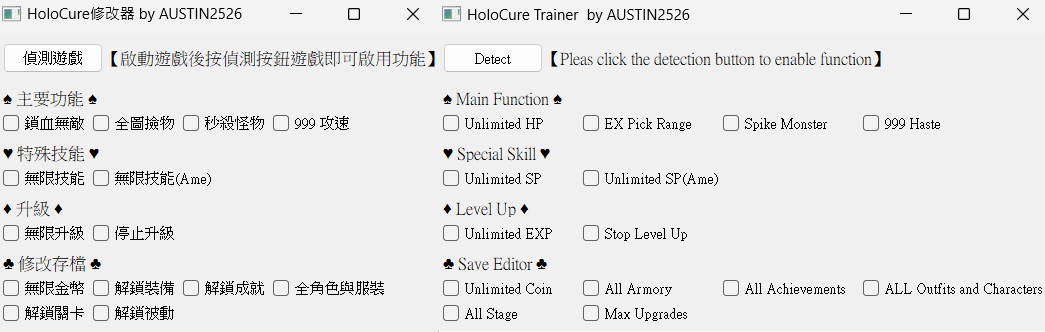
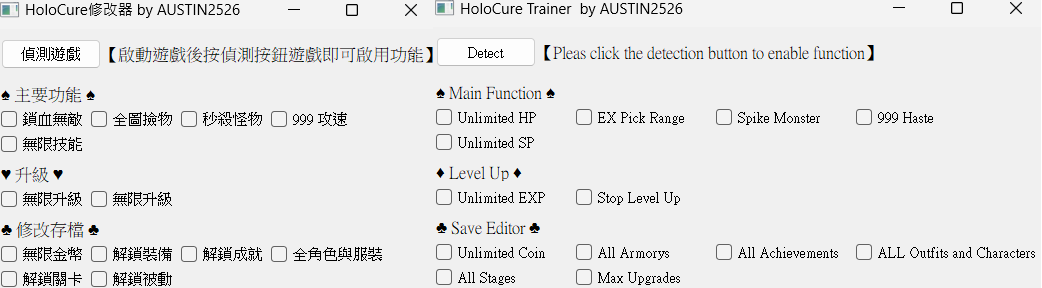
updata v1.3.2

diff --git a/app.py b/app.py
@@ -31,16 +31,14 @@ class AppWindow(QWidget):
         #if you want to add new function modify here
         self.modify_data = {
                              #dynamic editor(format function_name:[QCheckBox object, interlock object, value, base address, offsets])
-                            'func_name_1_hP':[self.ui.func_group_1[0], None, 1090021872, 0x00A1EFD8, [0x70,0x18,0x170,0x98,0x48,0x10,0x1F70,0x04]],
-                            'func_name_1_range':[self.ui.func_group_1[1], None, 1090021872, 0x00A1EFD8, [0x70,0x18,0x170,0x98,0x48,0x10,0x1670,0x04]],
-                            'func_name_1_atk':[self.ui.func_group_1[2], None, 1090021872, 0x00A1EFD8, [0x70,0x18,0x170,0x98,0x48,0x10,0x480,0x04]],
-                            'func_name_1_haste':[self.ui.func_group_1[3], None, 1083127808, 0x00A1EFD8, [0x70,0x18,0x170,0x98,0x48,0x10,0x1F0,0x04]],
-
-                            'func_name_2_ex':[self.ui.func_group_2[0], self.ui.func_group_2[1], 1079558144, 0x00A1EFD8, [0x70,0x18,0x170,0x98,0x48,0x10,0x1B30,0x04]],
-                            'func_name_2_ex_ame':[self.ui.func_group_2[1], self.ui.func_group_2[0], 1079558144, 0x00A1EFD8, [0x70,0x18,0x170,0x98,0x48,0x10,0x1B50,0x04]],
+                            'func_name_1_hP':[self.ui.func_group_1[0], None, 1090021872, 0x00A1EFD8, [0x70,0x18,0x170,0x98,0x48,0x10,0x11A0,0x04]],
+                            'func_name_1_range':[self.ui.func_group_1[1], None, 1090021872, 0x00A1EFD8, [0x70,0x18,0x170,0x98,0x48,0x10,0x500,0x04]],
+                            'func_name_1_atk':[self.ui.func_group_1[2], None, 1090021872, 0x00A1EFD8, [0x70,0x18,0x170,0x98,0x48,0x10,0x16C0,0x04]],
+                            'func_name_1_haste':[self.ui.func_group_1[3], None, 1083127808, 0x00A1EFD8, [0x70,0x18,0x170,0x98,0x48,0x10,0x1430,0x04]],
+                            'func_name_1_ex':[self.ui.func_group_1[4], None, 1079558144, 0x00A1EFD8, [0x70,0x18,0x170,0x98,0x48,0x10,0x9C0,0x04]],
                              
-                            'func_name_3_level_up':[self.ui.func_group_3[0],self.ui.func_group_3[1], 1072693248, 0x00800B60, [0x48,0x10,0x1840,0x4]],
-                            'func_name_3_stop_level_up':[self.ui.func_group_3[1],self.ui.func_group_3[0], 1083127808, 0x00800B60, [0x48,0x10,0x1840,0x4]],  
+                            'func_name_2_level_up':[self.ui.func_group_2[0],self.ui.func_group_2[1], 1072693248, 0x008007B0, [0x30,0x2A90,0x4]],
+                            'func_name_2_stop_level_up':[self.ui.func_group_2[1],self.ui.func_group_2[0], 1083127808, 0x008007B0, [0x30,0x1D50,0x4]],
                                 
                                 
                              #save editor(format function_name:[QCheckBox object,{key:val}])
@@ -131,10 +129,10 @@ class AppWindow(QWidget):
                                                         self.ui.save_editor_func_1[3],
                                                         {
                                                          'characters':[
-                                                                        ['kronii', 20], ['fubuki', 20], ['calli', 20], ['mel', 20], ['suisei', 20], ['matsuri', 20], ['choco', 20], \
-                                                                        ['ayame', 20], ['haato', 20], ['random', 0], ['none', 0], ['roboco', 20], ['fauna', 20], ['sora', 20], ['miko', 20], ['empty', 0], ['gura', 20], ['sana', 20], \
-                                                                        ['okayu', 20], ['aki', 20], ['irys', 20], ['shion', 20], ['bae', 20], ['azki', 20], ['kiara', 20], ['aqua', 20], ['ina', 20], ['korone', 20], ['mio', 20], \
-                                                                        ['ame', 20], ['subaru', 20], ['mumei', 20]
+                                                                        ['kronii', 30], ['fubuki', 30], ['calli', 30], ['mel', 30], ['suisei', 30], ['matsuri', 30], ['choco', 30], \
+                                                                        ['ayame', 30], ['haato', 30], ['random', 0], ['none', 0], ['roboco', 30], ['fauna', 30], ['sora', 30], ['miko', 30], ['empty', 0], ['gura', 30], ['sana', 30], \
+                                                                        ['okayu', 30], ['aki', 30], ['irys', 30], ['shion', 30], ['bae', 30], ['azki', 30], ['kiara', 30], ['aqua', 30], ['ina', 30], ['korone', 30], ['mio', 30], \
+                                                                        ['ame', 30], ['subaru', 30], ['mumei', 30]
                                                          ],
                                                         'unlockedOutfits':['default', 'ameAlt1', 'kiaraAlt1', 'inaAlt1', 'guraAlt1', 'calliAlt1', 'irysAlt1', 'baeAlt1', 'sanaAlt1', 'faunaAlt1', 'mumeiAlt1', 'kroniiAlt1', 'kurokami', \
                                                                            'ameAlt2', 'inaAlt2', 'guraAlt2', 'calliAlt2', 'kiaraAlt2', 'irysAlt2', 'faunaAlt2', 'kroniiAlt2', 'fubukiAlt1', 'mioAlt1', 'koroneAlt1', 'okayuAlt1', 'soraAlt1', \

diff --git a/UI.py b/UI.py
@@ -11,11 +11,11 @@ class Ui_Form:
         #set system language
         if self.language =='zh_TW' or self.language =='zh':
             self.language = 'zh_TW'
-            self.w, self.h, self.space, self.row_space = 450, 300, 90, 30
+            self.w, self.h, self.space, self.row_space = 450, 270, 90, 30
             
         else:
             self.language = 'en'
-            self.w, self.h, self.space, self.row_space = 620, 300, 140, 30
+            self.w, self.h, self.space, self.row_space = 620, 270, 140, 30
             
 
         #UI language (if you want add new function modify here【format func_name_ + "num"】)
@@ -24,39 +24,37 @@ class Ui_Form:
                                  'detect_button':'偵測遊戲',
                                  
                                  #modify here
-                                 'func_name_1':['鎖血無敵', '全圖撿物', '秒殺怪物', '999 攻速'],
-                                 'func_name_2':['無限技能','無限技能(Ame)'],
-                                 'func_name_3':['無限升級', '停止升級'],
-                                 'func_name_4':['無限金幣', '解鎖裝備', '解鎖成就', '全角色與服裝', '解鎖關卡', '解鎖被動'],
+                                 'func_name_1':['鎖血無敵', '全圖撿物', '秒殺怪物', '999 攻速','無限技能'],
+                                 'func_name_2':['無限升級','無限升級'],
+                                 'func_name_3':['無限金幣', '解鎖裝備', '解鎖成就', '全角色與服裝', '解鎖關卡', '解鎖被動'],
                                  
                                  #modify here
                                  'func_title_1':'♠ 主要功能 ♠',
-                                 'func_title_2':'♥ 特殊技能 ♥',
-                                 'func_title_3':'♦ 升級 ♦',
-                                 'func_title_4':'♣ 修改存檔 ♣'},
+                                 'func_title_2':'♥ 升級 ♥',
+                                 'func_title_3':'♣ 修改存檔 ♣'},
                           
                         'en':{'ui_name':'HoloCure Trainer  by AUSTIN2526',
                               'info':'【Pleas click the detection button to enable function】',
                               'detect_button':'Detect',
                               
                               #modify here
-                              'func_name_1':['Unlimited HP', 'EX Pick Range', 'Spike Monster', '999 Haste'],
-                              'func_name_2':['Unlimited SP','Unlimited SP(Ame)'],
-                              'func_name_3':['Unlimited EXP', 'Stop Level Up'],
-                              'func_name_4':['Unlimited Coin', 'All Armorys', 'All Achievements', 'ALL Outfits and Characters', 'All Stages', 'Max Upgrades'],
+                              'func_name_1':['Unlimited HP', 'EX Pick Range', 'Spike Monster', '999 Haste', 'Unlimited SP'],
+                              'func_name_2':['Unlimited EXP', 'Stop Level Up'],
+                              'func_name_3':['Unlimited Coin', 'All Armorys', 'All Achievements', 'ALL Outfits and Characters', 'All Stages', 'Max Upgrades'],
                                  
                                #modify here
                               'func_title_1':'♠ Main Function ♠',
-                              'func_title_2':'♥ Special Skill ♥',
-                              'func_title_3':'♦ Level Up ♦',
-                              'func_title_4':'♣ Save Editor ♣'},          
+                              'func_title_2':'♦ Level Up ♦',
+                              'func_title_3':'♣ Save Editor ♣'},          
         }
+        
+        #QCheckBox group(save_editor_func_1 need to be in the last)
+        self.func_group_1, self.func_group_2, self.save_editor_func_1 = [], [], []
+        self.all_group = [self.func_group_1, self.func_group_2, self.save_editor_func_1]
         
     def setupUi(self, page):   
 
-        #QCheckBox group(save_editor_func_1 need to be in the last)
-        self.func_group_1, self.func_group_2, self.func_group_3, self.save_editor_func_1 = [], [], [], []
-        self.all_group = [self.func_group_1, self.func_group_2, self.func_group_3, self.save_editor_func_1]
+        
         
         #set window
         page.resize(self.w, self.h)

diff --git a/README.md b/README.md
@@ -42,7 +42,7 @@ https://github.com/AUSTIN2526/holocure-trainer/releases
   Unlock All achievements.
 
 * ### ALL Outfits and Characters
-  Unlock All characters outfits and modify characters LV to 20.
+  Unlock All characters outfits and modify characters LV to 30.
   
 * ### All Stage
   Unlock All stage.
@@ -58,6 +58,5 @@ https://github.com/AUSTIN2526/holocure-trainer/releases
 ## Please Note
 1.Don't use HoloCure Launcher open the game(will cause the locked fail).   
 2.Unlocking the collabs recipe may cause the trainer to fail, you need to restart the stage to solve it.   
-3.If your character is Ame need to use Unlimited SP(Ame) instead of Unlimited SP.      
-4.If function don't work in stage, press esc can help you solve the problem.      
-5.The value of some functions needs to exceed 0 to be able to use.
+3.If function don't work in stage, press esc can help you solve the problem.      
+4.The value of some functions needs to exceed 0 to be able to use.
